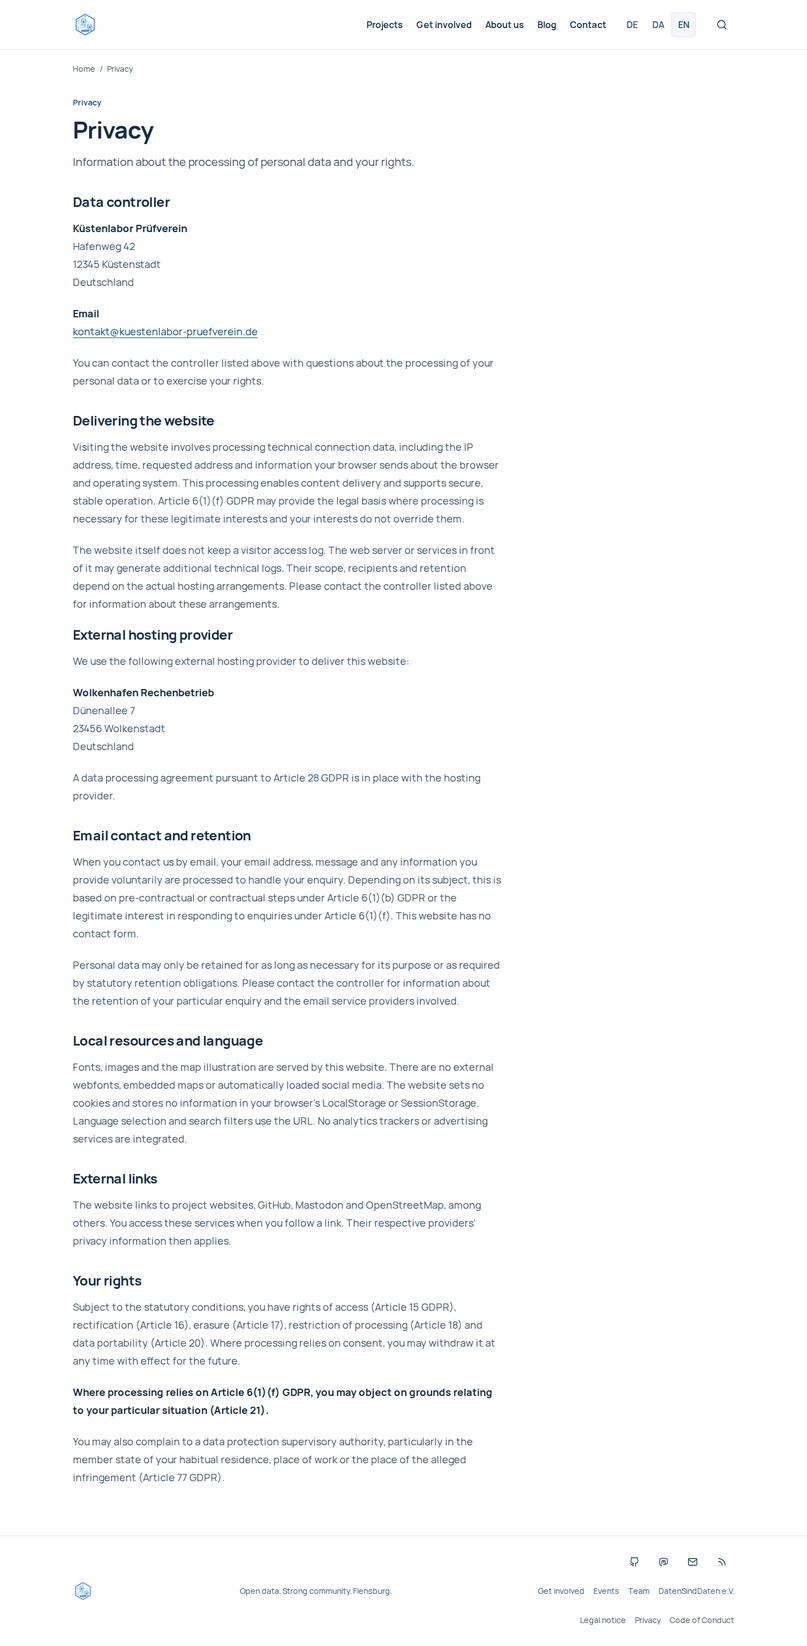
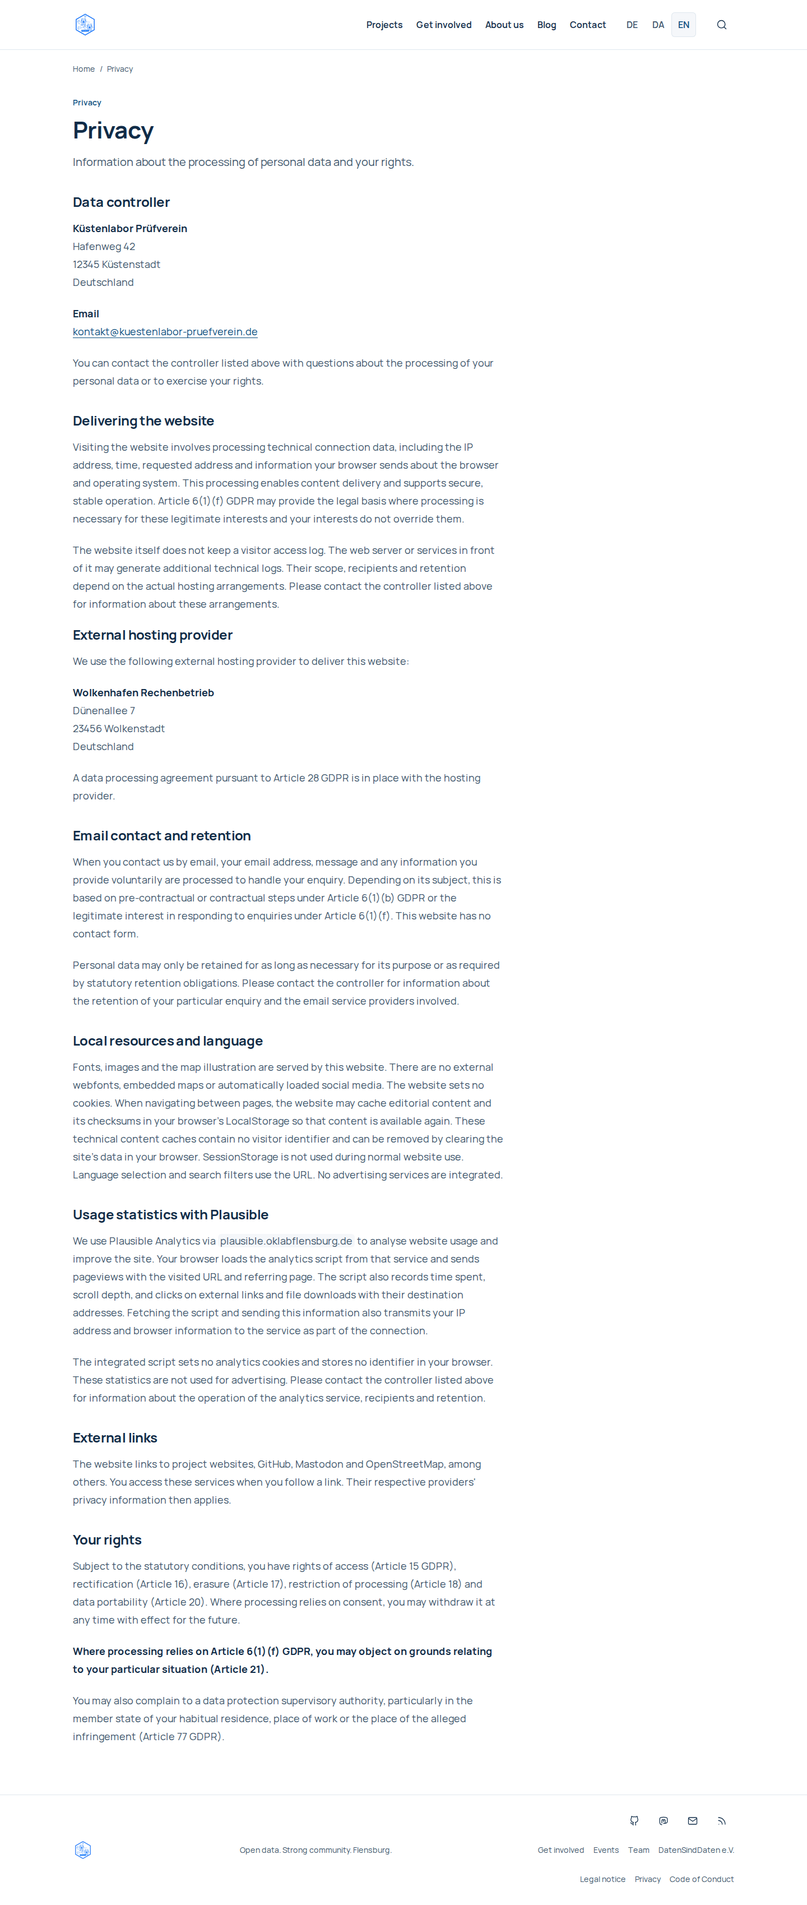
feat(analytics): integrate Plausible and update privacy disclosures

diff --git a/tests/e2e/analytics.spec.ts b/tests/e2e/analytics.spec.ts
@@ -1,0 +1,74 @@
+import { test, expect } from '@playwright/test'
+import { locales, localizedPath, site } from '../../shared/config/site'
+
+test.afterEach(async ({ page, context }) => {
+  await page.goto('about:blank')
+  await context.unrouteAll({ behavior: 'wait' })
+})
+
+for (const blocked of [false, true]) {
+  test(`public hostname installs Plausible once and navigation works; blocked=${blocked}`, async ({ page, context, request }) => {
+    const host = new URL(site.url).hostname
+    for (const locale of locales) {
+      const response = await request.get(localizedPath('/datenschutz', locale), { headers: { host } })
+      expect(response.status()).toBe(200)
+      const html = await response.text()
+      expect(html.split(`src="${site.analytics.script}"`)).toHaveLength(2)
+      expect(html.indexOf('window.plausible.init();')).toBeLessThan(html.indexOf(`src="${site.analytics.script}"`))
+    }
+
+    let scriptRequests = 0
+    const errors: string[] = []
+    page.on('pageerror', (error) => errors.push(error.message))
+    // Serve the public origin from the local production build. Never send test
+    // events to the real analytics service or fetch a mutable script in CI.
+    await context.route('**/*', async (route) => {
+      const url = new URL(route.request().url())
+      if (url.origin === site.url) {
+        const response = await route.fetch({
+          url: `http://127.0.0.1:3100${url.pathname}${url.search}`,
+          headers: { ...route.request().headers(), host },
+        })
+        await route.fulfill({ response })
+      } else if (url.href === site.analytics.script) {
+        scriptRequests++
+        if (blocked) await route.abort('blockedbyclient')
+        else await route.fulfill({
+          contentType: 'application/javascript',
+          body: 'if(typeof window.plausible!=="function"||!window.plausible.o)throw new Error("Missing Plausible initialization");window.plausible.integrationReady=true;',
+        })
+      } else {
+        errors.push(`Unexpected external request: ${url.origin}`)
+        await route.abort()
+      }
+    })
+    await page.goto(site.url)
+    await expect(page.locator('.menu-toggle')).toBeEnabled()
+    await expect.poll(() => scriptRequests).toBe(1)
+    const loader = page.locator(`script[src="${site.analytics.script}"]`)
+    await expect(loader).toHaveCount(1)
+    await expect(loader).toHaveAttribute('async', '')
+    if (!blocked) {
+      await expect.poll(() => page.evaluate(() => (window as unknown as {
+        plausible: { integrationReady?: boolean }
+      }).plausible.integrationReady)).toBe(true)
+    }
+    await page.evaluate(() => { document.documentElement.dataset.analyticsDocument = 'initial' })
+    await page.locator('.project-card a[href="/projekte/open-city-planner"]').first().click()
+    await expect(page).toHaveURL(`${site.url}/projekte/open-city-planner`)
+    await expect(page.locator('h1')).toHaveText('Open City Planner')
+    await page.goBack()
+    await expect(page).toHaveURL(`${site.url}/`)
+    await expect(page.locator('.project-card')).toHaveCount(3)
+    await expect(page.locator('html')).toHaveAttribute('data-analytics-document', 'initial')
+    await expect(loader).toHaveCount(1)
+    expect(scriptRequests).toBe(1)
+    expect(await context.cookies()).toEqual([])
+    const storage = await page.evaluate(() => ({ local: Object.keys(localStorage), session: sessionStorage.length }))
+    expect(storage.session).toBe(0)
+    // Nuxt Content caches collections during client navigation, independently
+    // of analytics. No identifiers or other storage keys may be introduced.
+    for (const key of storage.local) expect(key).toMatch(/^content_(checksum|collection)_(projects|blog)$/)
+    expect(errors).toEqual([])
+  })
+}

diff --git a/tests/e2e/legal.spec.ts b/tests/e2e/legal.spec.ts
@@ -119,7 +119,7 @@ test('production startup rejects missing and example config without logging valu
   expect((await request.get('/impressum')).status()).toBe(200)
 })
 
-test('the audited website uses local resources and no browser storage', async ({ page, context }) => {
+test('fresh preview page loads omit analytics and leave browser storage empty', async ({ page, context }) => {
   const external: string[] = []
   page.on('request', (request) => {
     if (new URL(request.url()).origin !== 'http://127.0.0.1:3100') external.push(request.url())
@@ -127,6 +127,7 @@ test('the audited website uses local resources and no browser storage', async ({
   for (const path of ['/', '/projekte', '/datenschutz', '/en/privacy']) {
     await page.goto(path)
     await expect(page.locator('.menu-toggle')).toBeEnabled()
+    await expect(page.locator(`script[src="${site.analytics.script}"]`)).toHaveCount(0)
     await page.evaluate(() => document.fonts.ready)
     expect(await page.evaluate(() => ({ local: localStorage.length, session: sessionStorage.length }))).toEqual({ local: 0, session: 0 })
   }

diff --git a/app/app.vue b/app/app.vue
@@ -5,6 +5,20 @@ const requestFetch = useRequestFetch()
 await useAsyncData('translations', () => requestFetch<TranslationGroup[]>('/api/translations'))
 // Content-aware canonical/alternate links are owned by usePageSeo.
 const localeHead = useLocaleHead({ seo: false })
+// Load once in the shared shell, only on the public site's production hostname.
+// Plausible handles History API navigation; an extra router hook would double count.
+if (!import.meta.dev && useRequestURL().hostname === new URL(site.url).hostname) {
+  useHead({
+    script: [
+      {
+        key: 'plausible-init',
+        tagPriority: 1,
+        innerHTML: 'window.plausible=window.plausible||function(){(window.plausible.q=window.plausible.q||[]).push(arguments)};window.plausible.init=window.plausible.init||function(i){window.plausible.o=i||{}};window.plausible.init();',
+      },
+      { key: 'plausible', tagPriority: 2, async: true, src: site.analytics.script },
+    ],
+  })
+}
 useHead(() => ({
   htmlAttrs: localeHead.value.htmlAttrs,
 }))

diff --git a/shared/config/site.ts b/shared/config/site.ts
@@ -10,6 +10,9 @@ export const site = {
     apple: '/apple-touch-icon.png',
   },
   url: 'https://oklabflensburg.de',
+  analytics: {
+    script: 'https://plausible.oklabflensburg.de/js/pa-kAVDHPi3E6v_DQyTEdWt-.js',
+  },
   email: 'info@oklabflensburg.de',
   github: 'https://github.com/oklabflensburg',
   repository: 'https://github.com/oklabflensburg/website',

diff --git a/docs/analytics.md b/docs/analytics.md
@@ -1,0 +1,21 @@
+# Plausible Analytics
+
+The shared shell in `app/app.vue` installs the supplied Plausible bootstrap and asynchronous script once. The script URL has one source in `shared/config/site.ts`. Initialization precedes the loader. The integration runs only in a production build on the hostname from `site.url` (`oklabflensburg.de`); development, localhost and other preview hosts do not load the script. The reverse proxy must preserve the public `Host` header.
+
+Plausible handles initial pageviews, `pushState` and back/forward navigation itself. Do not add a second router hook or manual pageview calls. No Nuxt module, package dependency, tracking proxy or consent banner is added. Blocking the script leaves the site usable.
+
+## Current script and data flow
+
+The supplied URL is `https://plausible.oklabflensburg.de/js/pa-kAVDHPi3E6v_DQyTEdWt-.js`. The script inspected on 2026-09-11 sends to `https://plausible.oklabflensburg.de/api/event` with domain `oklabflensburg.de`. Besides automatic pageviews, its generated defaults enable outbound-link, file-download and form-submission measurement. The website has no contact form. Engagement events include time spent and scroll depth. No custom event names, properties or revenue events are added by this repository.
+
+The browser payload includes the visited URL and referrer; outbound/download events include their destination. Do not assume query parameters are removed before transmission. IP address and User-Agent also reach the service as part of HTTP requests. The inspected script does not write cookies or browser identifiers; it reads an optional existing `localStorage.plausible_ignore` value. Separately, Nuxt Content caches editorial collection data and checksums in LocalStorage (`content_collection_*`, `content_checksum_*`) after client navigation. These are content caches, not analytics identifiers; they were missed by the earlier audit of fresh page loads. The privacy pages now describe them. Provider claims about server-side aggregation, IP handling or retention do not establish this particular instance's configuration.
+
+The DE/DA/EN privacy pages describe the integration. Confirm the instance operator, legal basis, recipients, retention, infrastructure and any processing agreements before publication; track that review in [editorial-todos.md](editorial-todos.md). A hostname under the Lab domain alone does not establish who hosts the analytics server. Changes in Plausible's dashboard can alter the served script's defaults without a repository change, so review the privacy text when changing those settings.
+
+## Verification
+
+`tests/e2e/analytics.spec.ts` routes the public hostname to the local production server and stubs the remote script. It verifies SSR placement, bootstrap ordering, one loader across client navigation/back, and operation when the script is blocked. All non-site requests are intercepted, so CI never sends analytics events. The ordinary browser suite uses localhost and verifies that analytics is omitted there.
+
+For a check of the actual supplied script, fetch it for local inspection and intercept all analytics requests in the browser before executing it. Verify one pageview per initial load, client route change and back navigation. Plausible excludes automated browsers by default; its `window.__plausible` test marker can enable this isolated check. Never send synthetic events to the live dashboard. The live dashboard's receipt of production traffic is a deployment check, not something an offline browser test proves.
+
+References: [SPA support](https://plausible.io/docs/spa-support), [script options](https://plausible.io/docs/script-extensions), [Plausible data policy](https://plausible.io/data-policy). These describe Plausible; the actual supplied script and deployment remain authoritative for this integration.

diff --git a/docs/editorial-todos.md b/docs/editorial-todos.md
@@ -5,7 +5,7 @@ Repository administration: GitHub Actions has been re-enabled; see [ci-audit.md]
 The implementation does not infer missing facts. This checklist records the remaining editorial work; legal pages no longer display publication TODO text.
 
 - **Legal notice:** configure the confirmed provider and service address through the [legal runtime environment](legal-configuration.md). Verify representation, register/VAT details and whether section 18(2) MStV applies; optional technical fields may be legally mandatory for the actual provider. Do not substitute the meetup venue for a legal address. Production startup validation checks completeness and common placeholders, not legal truth or editorial approval.
-- **Privacy:** the shared runtime identity and translated sections on delivery, email, local assets, external links and rights are implemented. Hosting identity and the Art. 28 agreement flag now render from the same runtime configuration. Before publication, configure the operator-supplied hosting facts outside Git and confirm actual email providers, logging, recipients, retention, legal bases and any international transfers; complete the DE/DA/EN prose with the necessary specific information. No provider, retention period, privacy officer or supervisory authority was invented. The application itself has no trackers, third-party embeds, external fonts, cookies or browser storage. This does not establish the behavior of production hosting/CDN/email services.
+- **Privacy:** the shared runtime identity and translated sections on delivery, email, local assets, external links and rights are implemented. Hosting identity and the Art. 28 agreement flag now render from the same runtime configuration. Before publication, configure the operator-supplied hosting facts outside Git and confirm actual email providers, logging, recipients, retention, legal bases and any international transfers; complete the DE/DA/EN prose with the necessary specific information. No provider, retention period, privacy officer or supervisory authority was invented. The application uses [Plausible analytics](analytics.md) through the configured analytics subdomain. Confirm that instance’s operator, legal basis, recipients, retention and any processing agreements before publication. The integrated script sets no analytics cookies or browser identifiers. Nuxt Content can cache editorial content/checksums in LocalStorage during client navigation; the privacy pages now distinguish those technical caches from analytics identifiers. Fonts and content images remain local. This does not establish the behavior of production hosting/CDN/email services.
 - **Association:** the supporting role of DatenSindDaten e.V. is specified by the task. Board, statutes, transparency documents, membership terms, funding, sponsorship and donations require verified material. No verified canonical association website is recorded in this repository; keep the association information unlinked until one is confirmed and added to `site.association`. Never substitute the Code for Germany network URL.
 - **Code of Conduct:** the proposed text needs community adoption, named confidential contacts and an agreed reporting and enforcement process.
 - **Team:** collect explicit approval and maintain profiles in `content/team/`. No previous automatically collected profiles were carried forward.

diff --git a/docs/legal-configuration.md b/docs/legal-configuration.md
@@ -75,11 +75,11 @@ Die Prüfung erkennt verbreitete Fehler, **verifiziert aber weder die Existenz n
 
 Betreiber- und Hosting-Angaben ausschließlich in der Deployment-Konfiguration pflegen. Übersetzte Rechtstexte ausschließlich in den sechs Content-Dateien ändern. Jede Änderung an Identität, Vertretung, Zuständigkeit oder Rechtstexten benötigt vor Veröffentlichung menschliche und fachliche/rechtliche Prüfung. Die technische Umsetzung ersetzt diese Prüfung nicht.
 
-Der Code-Audit für Issue #17 ergab:
+Der aktuelle Anwendungsumfang nach Issue #17 und der Plausible-Erweiterung:
 
 - Manrope, Bilder, SVG-Kartenillustration und Projekt-Signets werden lokal ausgeliefert. Externe Karten, GitHub und Mastodon sind Links; es gibt keine automatisch geladenen Einbettungen.
-- Keine Analyse-/Werbeintegration, keine Anwendungscookies, kein `localStorage` oder `sessionStorage`. Sprachwahl und Filter verwenden URLs. Kein Kontaktformular und keine Benutzerkonten.
-- Kein eigener Besucher-Access-Logger. Hosting, Reverse-Proxy-/CDN-Protokolle, Empfänger, Aufbewahrungsfristen, etwaige Drittlandübermittlungen und der E-Mail-Betrieb sind aus dem Repository nicht feststellbar. Der Browsercheck überprüft zusätzlich Requests und Speicher im Testbetrieb; das belegt keine Produktionsinfrastruktur.
+- [Plausible-Nutzungsstatistik](analytics.md) auf der produktiven Domain; keine Werbeintegration oder Anwendungscookies. Das Skript schreibt keine Browser-Kennungen, liest aber einen gegebenenfalls vorhandenen `plausible_ignore`-Opt-out-Wert aus `localStorage`. Nuxt Content kann bei Client-Navigation Inhalte und Prüfsummen als `content_collection_*` / `content_checksum_*` im LocalStorage cachen; das sind technische Inhalts-Caches ohne Besucherkennung. Sprachwahl und Filter verwenden URLs. Kein Kontaktformular und keine Benutzerkonten.
+- Kein eigener Besucher-Access-Logger. Hosting, Plausible-Betrieb, Reverse-Proxy-/CDN-Protokolle, Empfänger, Aufbewahrungsfristen, etwaige Drittlandübermittlungen und der E-Mail-Betrieb sind aus dem Repository nicht feststellbar. Der Browsercheck überprüft zusätzlich Requests und Speicher im Testbetrieb; das belegt keine Produktionsinfrastruktur.
 
 **Vor Veröffentlichung offen:** die vom Betreiber benannten Hosting-Daten und die Vertragsbestätigung außerhalb von Git konfigurieren; den tatsächlichen Hosting- und E-Mail-Betrieb einschließlich Protokollen, Empfängern und Aufbewahrung erheben und die Datenschutztexte in allen drei Sprachen um die erforderlichen konkreten Informationen ergänzen. Die Texte beschreiben bisher den belegten Anwendungsumfang und allgemeine Kriterien, nennen keine erfundenen Dienstleister oder Fristen. Register, USt-ID, Vertretung, §-18-Verantwortlichkeit, Datenschutzkontakt und zuständige Aufsichtsbehörde ebenfalls prüfen. Alle offenen Punkte bleiben in [editorial-todos.md](editorial-todos.md) sichtbar. Ein technisch vollständiger Datensatz ist keine redaktionelle Freigabe.
 

diff --git a/content/de/pages/datenschutz.md b/content/de/pages/datenschutz.md
@@ -37,7 +37,13 @@ Personenbezogene Daten dürfen nur so lange aufbewahrt werden, wie es für den j
 
 ## Lokale Ressourcen und Sprache
 
-Schriften, Bilder und die Kartenillustration werden von dieser Website ausgeliefert. Es werden keine externen Webfonts, eingebetteten Karten oder automatisch geladenen sozialen Medien verwendet. Die Website setzt keine Cookies und speichert keine Angaben in LocalStorage oder SessionStorage Ihres Browsers. Die Sprachwahl und Suchfilter werden über die URL gesteuert. Es sind keine Analyse-Tracker oder Werbedienste eingebunden.
+Schriften, Bilder und die Kartenillustration werden von dieser Website ausgeliefert. Es werden keine externen Webfonts, eingebetteten Karten oder automatisch geladenen sozialen Medien verwendet. Die Website setzt keine Cookies. Bei Seitenwechseln innerhalb der Website können redaktionelle Inhalte und deren Prüfsummen im LocalStorage Ihres Browsers zwischengespeichert werden, damit Inhalte erneut verfügbar sind. Diese technischen Inhalts-Caches enthalten keine Besucherkennung und können über die Website-Daten Ihres Browsers gelöscht werden. SessionStorage wird im regulären Website-Betrieb nicht verwendet. Die Sprachwahl und Suchfilter werden über die URL gesteuert. Werbedienste sind nicht eingebunden.
+
+## Nutzungsstatistik mit Plausible
+
+Wir verwenden Plausible Analytics über `plausible.oklabflensburg.de`, um die Nutzung dieser Website auszuwerten und das Angebot zu verbessern. Ihr Browser lädt dort das Analyseskript und übermittelt Seitenaufrufe mit der aufgerufenen URL und der verweisenden Seite. Das Skript erfasst außerdem Nutzungsdauer, Scrolltiefe sowie Klicks auf externe Links und Dateidownloads mit der jeweiligen Zieladresse. Beim Abruf und bei der Übertragung werden technisch auch IP-Adresse und Browserinformationen an diesen Dienst übermittelt.
+
+Das eingebundene Skript setzt keine Analyse-Cookies und speichert keine Kennung im Browser. Die Statistik ist nicht für Werbung bestimmt. Informationen zum Betrieb des Analysedienstes, zu Empfängern und zur Aufbewahrung erhalten Sie bei der oben genannten verantwortlichen Stelle.
 
 ## Externe Links
 

diff --git a/AGENTS.md b/AGENTS.md
@@ -57,7 +57,7 @@ Do not hand-edit or commit generated runtime/tooling directories: `.nuxt/`, `.ou
 - Body and descriptions: at least 16 px, important desktop copy 18 px with 28/32 px line height. Use the existing `.prose` (max 48rem), not `prose-sm`. Card titles are 20 px; desktop navigation/buttons at least 16 px, mobile navigation 18 px. Keep secondary copy/tags/footer at 14 px; `text-xs` is reserved for genuine microinformation (currently map attribution). Do not shrink copy to force it into a layout; allow reflow and preserve text contrast.
 - The sole organisation master is [public/brand/oklabflensburg-logo.png](public/brand/oklabflensburg-logo.png), unchanged from the [canonical upstream PNG](https://github.com/oklabflensburg/.github/blob/main/resources/oklabflensburg_logo_quadrat.png). Use `site.logo` through `AppLogo.vue`, including header/footer/mobile navigation. No redraw, vectorization, crop, stretch, filters, recolouring, duplicate source or extra wordmark.
 - Keep organisation, individual project signets, supporting association and network identities distinct. The OK Lab logo is neither every project's icon nor the association/network logo.
-- Keep images/fonts local and retain provenance/licences. Prefer `NuxtImg` with explicit dimensions and meaningful alt text; existing direct SVG project images remain valid. Use existing assets; no trackers or unnecessary third-party embeds.
+- Keep images/fonts local and retain provenance/licences. Prefer `NuxtImg` with explicit dimensions and meaningful alt text; existing direct SVG project images remain valid. Use existing assets; the approved Plausible integration in `app/app.vue` is the sole analytics integration (see [analytics.md](docs/analytics.md)). Do not add other trackers or unnecessary third-party embeds.
 - Favicons and social PNGs are generated derivatives, not editable logo sources. `pnpm brand:generate` uses Sharp and runs automatically before `pnpm build`; inspect generated changes before committing. Source hash, asset roles and generation rules are in [brand.md](docs/brand.md).
 
 ## SEO and accessibility

diff --git a/content/en/pages/datenschutz.md b/content/en/pages/datenschutz.md
@@ -37,7 +37,13 @@ Personal data may only be retained for as long as necessary for its purpose or a
 
 ## Local resources and language
 
-Fonts, images and the map illustration are served by this website. There are no external webfonts, embedded maps or automatically loaded social media. The website sets no cookies and stores no information in your browser's LocalStorage or SessionStorage. Language selection and search filters use the URL. No analytics trackers or advertising services are integrated.
+Fonts, images and the map illustration are served by this website. There are no external webfonts, embedded maps or automatically loaded social media. The website sets no cookies. When navigating between pages, the website may cache editorial content and its checksums in your browser's LocalStorage so that content is available again. These technical content caches contain no visitor identifier and can be removed by clearing the site's data in your browser. SessionStorage is not used during normal website use. Language selection and search filters use the URL. No advertising services are integrated.
+
+## Usage statistics with Plausible
+
+We use Plausible Analytics via `plausible.oklabflensburg.de` to analyse website usage and improve the site. Your browser loads the analytics script from that service and sends pageviews with the visited URL and referring page. The script also records time spent, scroll depth, and clicks on external links and file downloads with their destination addresses. Fetching the script and sending this information also transmits your IP address and browser information to the service as part of the connection.
+
+The integrated script sets no analytics cookies and stores no identifier in your browser. These statistics are not used for advertising. Please contact the controller listed above for information about the operation of the analytics service, recipients and retention.
 
 ## External links
 

diff --git a/content/da/pages/datenschutz.md b/content/da/pages/datenschutz.md
@@ -37,7 +37,13 @@ Personoplysninger må kun opbevares, så længe det er nødvendigt for formålet
 
 ## Lokale ressourcer og sprog
 
-Skrifttyper, billeder og kortillustrationen leveres fra denne hjemmeside. Der bruges ingen eksterne webfonte, indlejrede kort eller automatisk indlæste sociale medier. Hjemmesiden sætter ingen cookies og gemmer ingen oplysninger i browserens LocalStorage eller SessionStorage. Sprogvalg og søgefiltre styres via URL'en. Der er ingen analysetrackere eller reklametjenester.
+Skrifttyper, billeder og kortillustrationen leveres fra denne hjemmeside. Der bruges ingen eksterne webfonte, indlejrede kort eller automatisk indlæste sociale medier. Hjemmesiden sætter ingen cookies. Når du navigerer mellem sider, kan hjemmesiden gemme redaktionelt indhold og dets kontrolsummer i browserens LocalStorage, så indholdet er tilgængeligt igen. Disse tekniske indholdscaches indeholder ingen besøgsidentifikator og kan slettes via browserens webstedsdata. SessionStorage bruges ikke ved almindelig brug af hjemmesiden. Sprogvalg og søgefiltre styres via URL'en. Der er ingen reklametjenester.
+
+## Brugsstatistik med Plausible
+
+Vi bruger Plausible Analytics via `plausible.oklabflensburg.de` til at analysere brugen af hjemmesiden og forbedre tilbuddet. Din browser henter analysescriptet derfra og sender sidevisninger med den besøgte URL og den henvisende side. Scriptet registrerer også besøgstid, rulledybde samt klik på eksterne links og fildownloads med den tilhørende destinationsadresse. Ved hentning og overførsel sendes også IP-adresse og browseroplysninger til tjenesten som en teknisk del af forbindelsen.
+
+Det indlejrede script sætter ingen analysecookies og gemmer ingen identifikator i browseren. Statistikken bruges ikke til reklamer. Kontakt den ovenfor angivne dataansvarlige for oplysninger om driften af analysetjenesten, modtagere og opbevaring.
 
 ## Eksterne links
 
